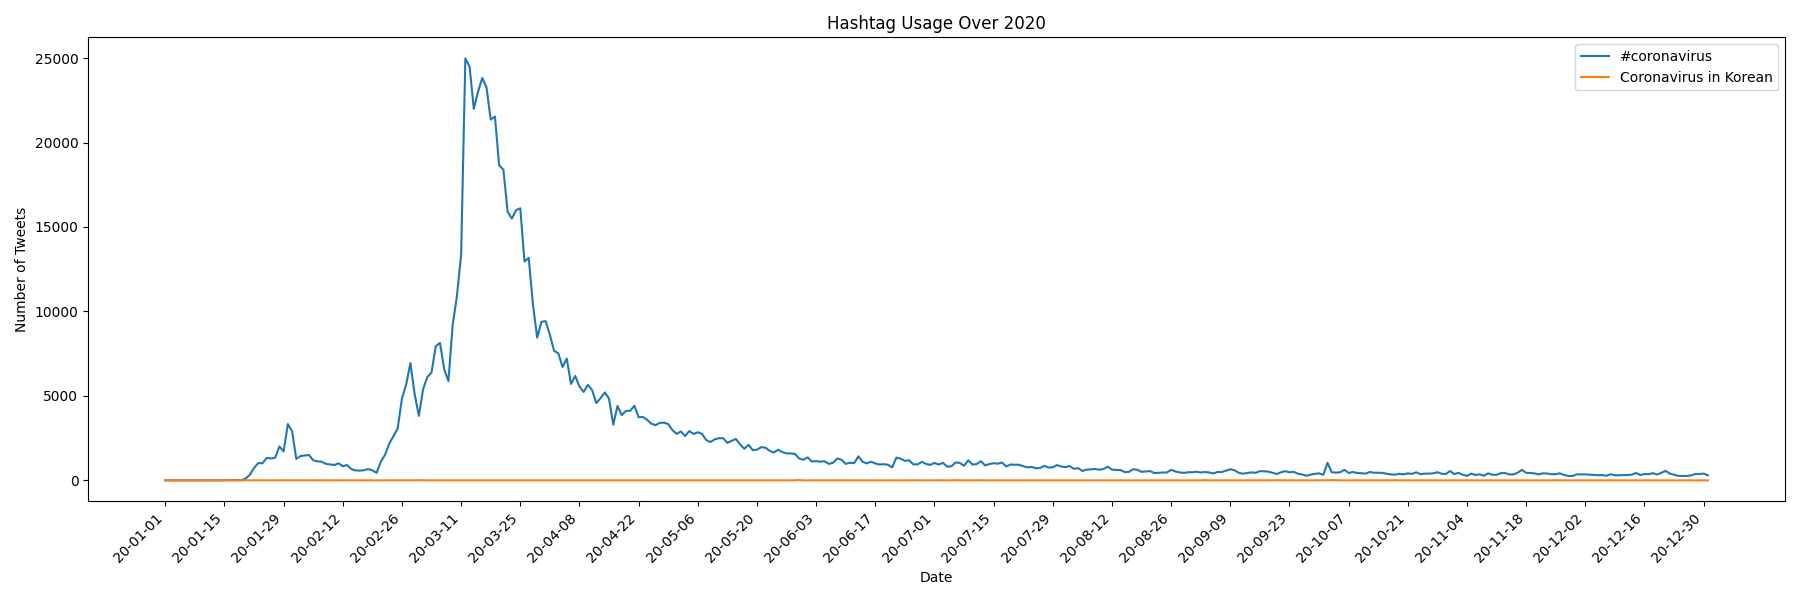
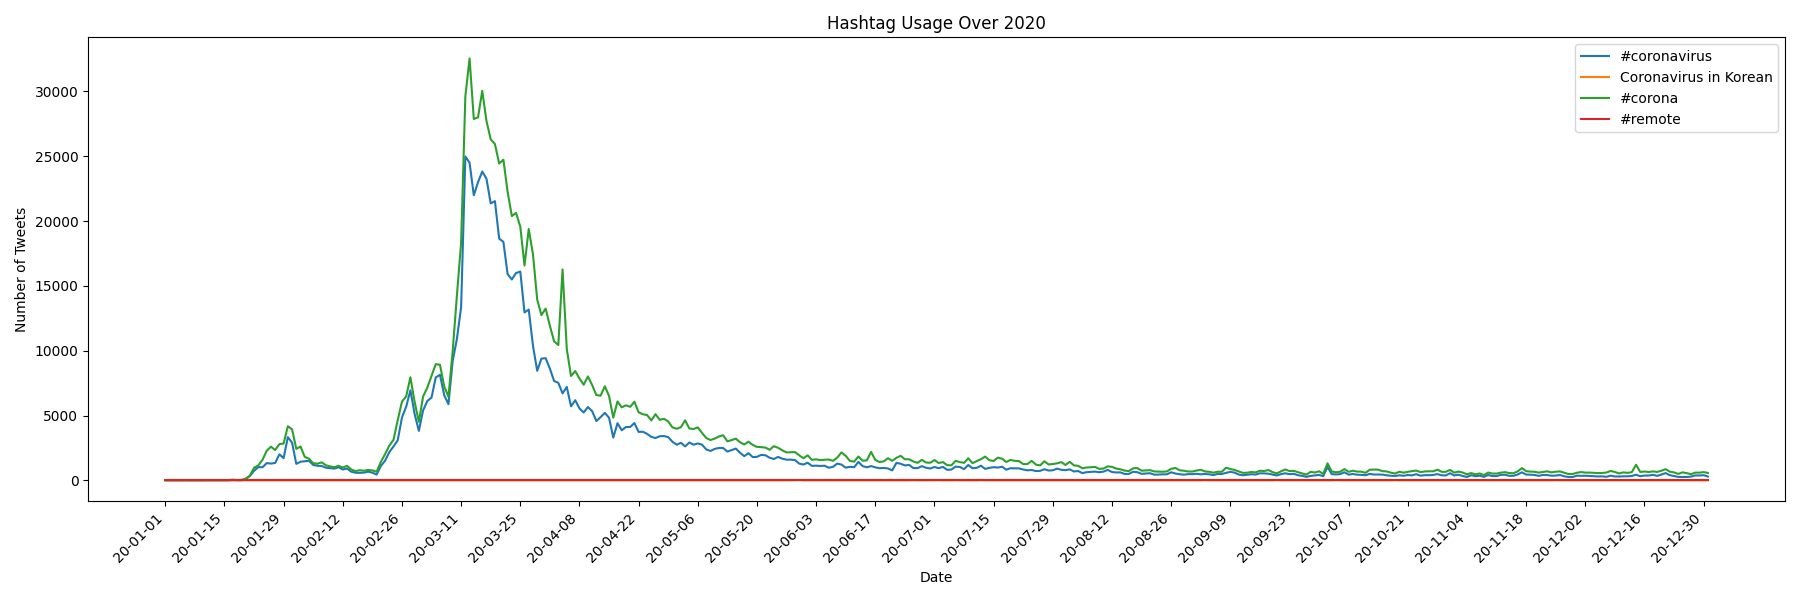
typo fix + added more lined to alternative_reduce graph

diff --git a/README.md b/README.md
@@ -20,7 +20,7 @@ This project analyzes geotagged tweets from 2020 to track the number of COVID-19
 ### #코로나바이러스 (Coronavirus in Korean) by Language
 ![coronavirus (in korean) by language](outputs/output_imgs/reduced.lang.코로나바이러스.png)
 
-### #코로나바이러스 (Coronavirus in Korean) by COuntry
+### #코로나바이러스 (Coronavirus in Korean) by Country
 ![coronavirus (in korean) by country](outputs/output_imgs/reduced.country.코로나바이러스.png)
 
 ### Coronavirus Related Hashtag Usage Over 2020
